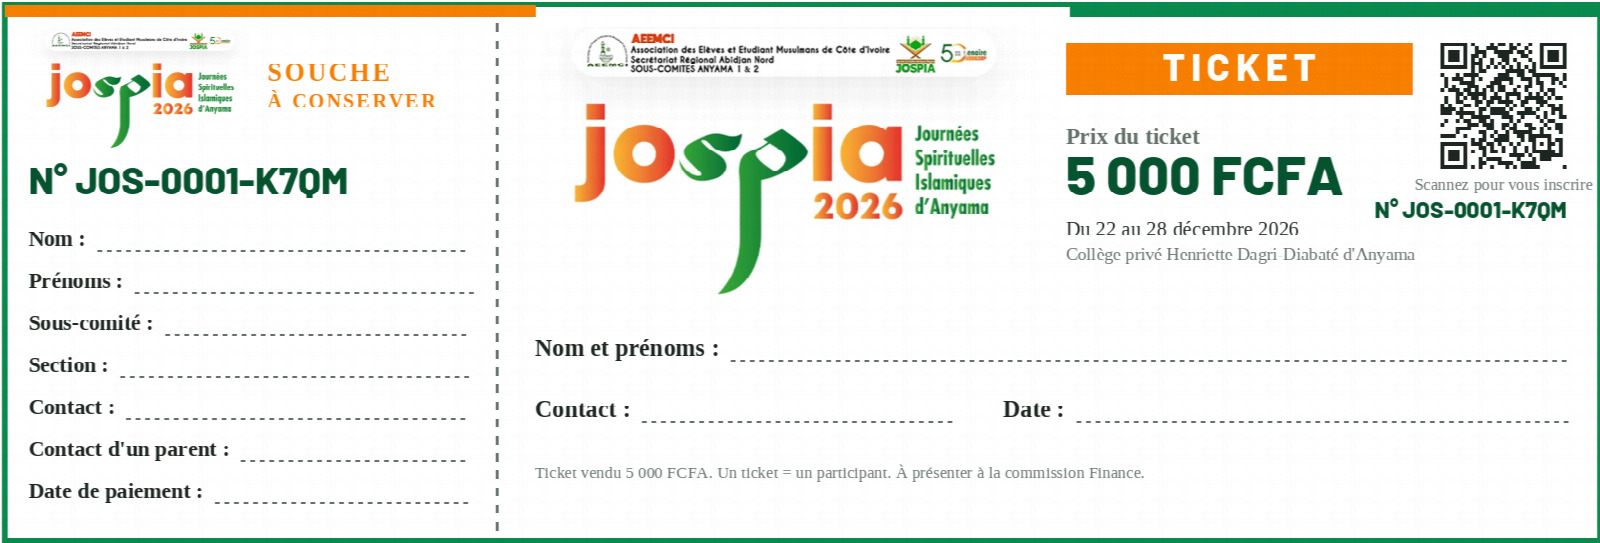
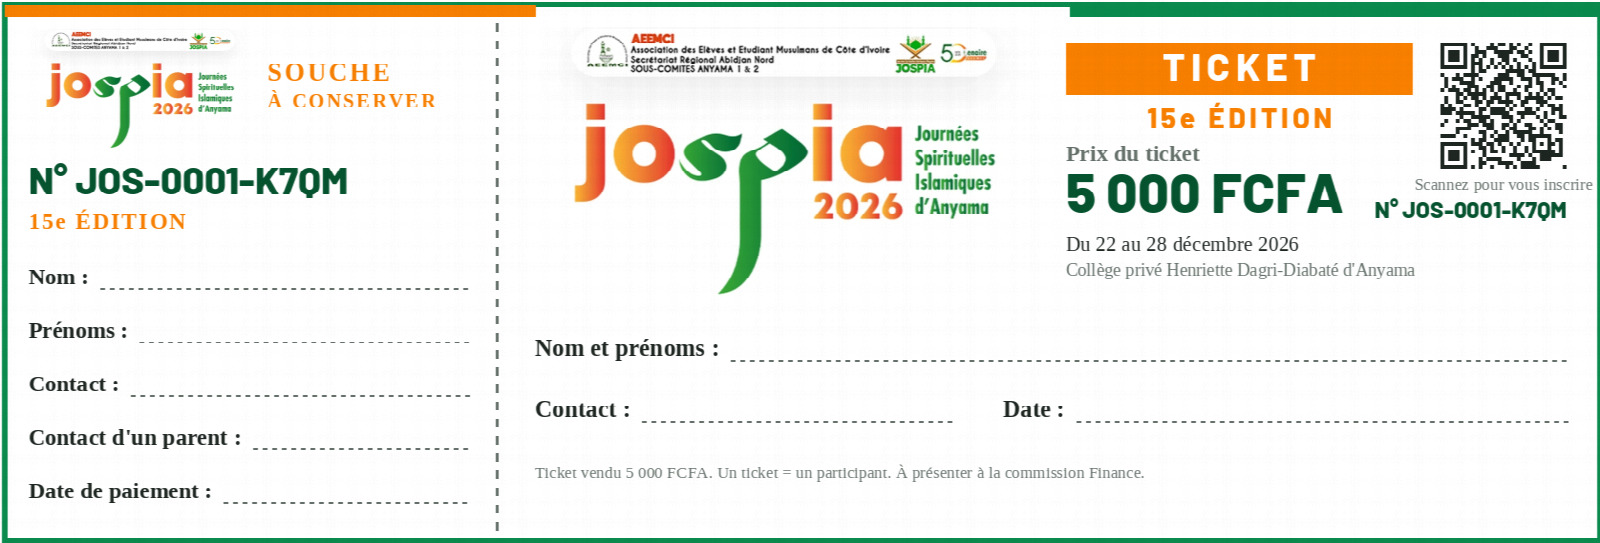
Présentation : 6 transitions, 3 nouveaux diplômes séminariste, 4 modèles diplôme d'honneur, 4 tickets distincts, souche + 15e édition
Claude-Session: https://claude.ai/code/session_01KoR57eyK1Tu3mM4eFj1smP

diff --git a/admin/presentation_administration.php b/admin/presentation_administration.php
@@ -86,11 +86,11 @@ function afficherVariantes($titre, $dossier, $cle, $vars, $ext = 'webp', $paysag
 $AC = ['actuel', 'Version actuelle', 'Orange (initial)', '#F28B1E'];
 $BT = [['petrole', 'Proposition 1', 'Bleu pétrole', '#0A6B84'], ['vert', 'Proposition 2', 'Vert profond', '#3F6B52'], ['nuit', 'Proposition 3', 'Bleu nuit', '#2A44A0']];
 $BA = array_merge([$AC], $BT);
-$DS = array_merge([['actuel', 'Version actuelle', 'Vert et or (initial)', '#C89B2C']], $BT);
+$DS = [['actuel', 'Version actuelle', 'Vert et or (initial)', '#C89B2C'], ['d', 'Modèle 1', 'Vagues pétrole et orange', '#0A6B84'], ['e', 'Modèle 2', 'Cadre doré étoilé', '#B8862B'], ['f', 'Modèle 3', 'Losanges vert et orange', '#0B6A3A']];
 $DC = [['actuel', 'Version actuelle', 'Vert (initial)', '#2E9A4C'], ['a', 'Proposition 1', 'Vagues vert et orange', '#3CB34A'], ['b', 'Proposition 2', 'Bande latérale vert profond', '#3F6B52'], ['c', 'Proposition 3', 'Rubans bleu pétrole', '#0A6B84']];
 $AB = [['formateur', 'Badge', 'Formateur', '#0B8A4E'], ['media', 'Badge', 'Média', '#16A870'], ['stand', 'Badge', 'Stand', '#F77F00'], ['visiteur', 'Badge', 'Visiteur', '#0B8A4E']];
 $TK = [['a', 'Ticket', 'N° JOS-0001-K7QM', '#0B8A4E'], ['b', 'Ticket', 'N° JOS-0002-R4XT', '#0B8A4E'], ['c', 'Ticket', 'N° JOS-0003-H9WE', '#F77F00'], ['d', 'Ticket', 'N° JOS-0004-P2ZN', '#F77F00']];
-$OF = [['petrole', 'Proposition 1', 'Bleu pétrole', '#0A6B84'], ['bordeaux', 'Proposition 2', 'Bordeaux', '#A63A58'], ['anthracite', 'Proposition 3', 'Anthracite', '#6A7077']];
+$OF = [['petrole', 'Modèle 1', 'Cadre sombre rayé', '#0A6B84'], ['b', 'Modèle 2', 'Bordeaux et or', '#6B1F33'], ['c', 'Modèle 3', 'Noir et or', '#D4A94A'], ['d', 'Modèle 4', 'Cercles vert et orange', '#0B6A3A']];
 ?><!DOCTYPE html>
 <html lang="fr">
 <head>
@@ -126,16 +126,52 @@ button{font-family:inherit}
 .tag::before{content:"";width:46px;height:3px;background:var(--o);box-shadow:0 0 14px var(--o)}
 .prog{position:absolute;left:0;bottom:0;height:7px;width:100%;z-index:30;background:rgba(255,255,255,.08)}
 .prog b{display:block;height:100%;width:0;background:linear-gradient(90deg,var(--t),var(--o));box-shadow:0 0 18px var(--o);transition:width .8s cubic-bezier(.3,0,.2,1)}
-/* ---------- transition « balayage » ---------- */
+/* ---------- transitions (6 modèles) ---------- */
 #wipe{position:absolute;inset:0;z-index:40;pointer-events:none;overflow:hidden}
-#wipe b{position:absolute;top:-15%;bottom:-15%;left:-80%;width:75%;transform:skewX(-16deg)}
-#wipe b:nth-child(1){background:linear-gradient(90deg,#ff5e00,#ff9a3d)}
-#wipe b:nth-child(2){background:linear-gradient(90deg,#0b6b7a,#12c2b0)}
-#wipe b:nth-child(3){background:#031a21}
-#wipe.go b{animation:wp 1.15s cubic-bezier(.75,0,.25,1) both}
-#wipe.go b:nth-child(2){animation-delay:.09s}
-#wipe.go b:nth-child(3){animation-delay:.18s}
+#wipe b{position:absolute;display:none;will-change:transform}
+#wipe.go b{display:block}
+/* t0 : bandes obliques */
+#wipe.t0 b{top:-15%;bottom:-15%;left:-80%;width:75%;transform:skewX(-16deg);animation:wp 1.15s cubic-bezier(.75,0,.25,1) both}
+#wipe.t0 b:nth-child(1){background:linear-gradient(90deg,#ff5e00,#ff9a3d)}
+#wipe.t0 b:nth-child(2){background:linear-gradient(90deg,#0b6b7a,#12c2b0);animation-delay:.09s}
+#wipe.t0 b:nth-child(3){background:#031a21;animation-delay:.18s}
+#wipe.t0 b:nth-child(n+4){display:none}
 @keyframes wp{from{transform:skewX(-16deg) translateX(0)}to{transform:skewX(-16deg) translateX(330%)}}
+/* t1 : volets verticaux */
+#wipe.t1 b{top:0;height:100%;width:12.6%;animation:vv 1.2s cubic-bezier(.7,0,.3,1) both}
+#wipe.t1 b:nth-child(odd){background:#031a21}#wipe.t1 b:nth-child(even){background:linear-gradient(180deg,#ff5e00,#ff9a3d)}
+#wipe.t1 b:nth-child(1){left:0}#wipe.t1 b:nth-child(2){left:12.5%;animation-delay:.05s}#wipe.t1 b:nth-child(3){left:25%;animation-delay:.1s}#wipe.t1 b:nth-child(4){left:37.5%;animation-delay:.15s}
+#wipe.t1 b:nth-child(5){left:50%;animation-delay:.2s}#wipe.t1 b:nth-child(6){left:62.5%;animation-delay:.25s}#wipe.t1 b:nth-child(7){left:75%;animation-delay:.3s}#wipe.t1 b:nth-child(8){left:87.5%;animation-delay:.35s}
+@keyframes vv{0%{transform:translateY(-101%)}40%,55%{transform:translateY(0)}100%{transform:translateY(101%)}}
+/* t2 : stores horizontaux */
+#wipe.t2 b{left:0;width:100%;height:12.6%;animation:hh 1.2s cubic-bezier(.7,0,.3,1) both}
+#wipe.t2 b:nth-child(odd){background:#0b6b7a}#wipe.t2 b:nth-child(even){background:#031a21}
+#wipe.t2 b:nth-child(1){top:0}#wipe.t2 b:nth-child(2){top:12.5%;animation-delay:.05s}#wipe.t2 b:nth-child(3){top:25%;animation-delay:.1s}#wipe.t2 b:nth-child(4){top:37.5%;animation-delay:.15s}
+#wipe.t2 b:nth-child(5){top:50%;animation-delay:.2s}#wipe.t2 b:nth-child(6){top:62.5%;animation-delay:.25s}#wipe.t2 b:nth-child(7){top:75%;animation-delay:.3s}#wipe.t2 b:nth-child(8){top:87.5%;animation-delay:.35s}
+@keyframes hh{0%{transform:translateX(-101%)}40%,55%{transform:translateX(0)}100%{transform:translateX(101%)}}
+/* t3 : iris */
+#wipe.t3 b:nth-child(1){inset:0;background:radial-gradient(circle,#0b6b7a 0,#031a21 70%);animation:ir 1.2s cubic-bezier(.7,0,.3,1) both}
+#wipe.t3 b:nth-child(2){left:50%;top:50%;width:140vmax;height:140vmax;margin:-70vmax 0 0 -70vmax;border-radius:50%;border:14px solid #ff7a1a;animation:ir2 1.2s cubic-bezier(.7,0,.3,1) both}
+@keyframes ir{0%{clip-path:circle(0% at 50% 50%)}45%,60%{clip-path:circle(75% at 50% 50%)}100%{clip-path:circle(75% at 50% 50%);opacity:0}}
+@keyframes ir2{0%{transform:scale(0);opacity:1}45%{transform:scale(1);opacity:1}60%,100%{transform:scale(1.15);opacity:0}}
+/* t4 : flash + zoom */
+#wipe.t4 b:nth-child(1){inset:0;background:radial-gradient(circle,#fff 0,#ffb46b 30%,#ff5e00 70%);animation:fl 1s ease-in-out both}
+#wipe.t4 b:nth-child(2){inset:0;background:#031a21;animation:fl2 1s ease-in-out both}
+@keyframes fl{0%{opacity:0;transform:scale(.6)}45%{opacity:1;transform:scale(1.2)}100%{opacity:0;transform:scale(1.7)}}
+@keyframes fl2{0%{opacity:0}40%,55%{opacity:.9}100%{opacity:0}}
+/* t5 : rideau en diagonale */
+#wipe.t5 b{top:-60%;left:-10%;width:130%;height:34%;transform:rotate(-20deg) translateX(-130%);animation:dg 1.2s cubic-bezier(.7,0,.3,1) both}
+#wipe.t5 b:nth-child(odd){background:#031a21}#wipe.t5 b:nth-child(even){background:linear-gradient(90deg,#ff5e00,#ff9a3d)}
+#wipe.t5 b:nth-child(1){top:-30%}#wipe.t5 b:nth-child(2){top:-10%;animation-delay:.06s}#wipe.t5 b:nth-child(3){top:10%;animation-delay:.12s}#wipe.t5 b:nth-child(4){top:30%;animation-delay:.18s}
+#wipe.t5 b:nth-child(5){top:50%;animation-delay:.24s}#wipe.t5 b:nth-child(6){top:70%;animation-delay:.3s}#wipe.t5 b:nth-child(7){top:90%;animation-delay:.36s}#wipe.t5 b:nth-child(8){display:none}
+@keyframes dg{0%{transform:rotate(-20deg) translateX(-130%)}40%,55%{transform:rotate(-20deg) translateX(0)}100%{transform:rotate(-20deg) translateX(130%)}}
+/* entrées de diapositive variées */
+.slide.actif.e1 .cadre{animation:e1 1s cubic-bezier(.16,.9,.25,1) .45s both}
+.slide.actif.e2 .cadre{animation:e2 1s cubic-bezier(.16,.9,.25,1) .45s both}
+.slide.actif.e3 .cadre{animation:e3 1s cubic-bezier(.16,.9,.25,1) .45s both}
+@keyframes e1{from{opacity:0;transform:scale(1.18);filter:blur(14px)}to{opacity:1;transform:none;filter:none}}
+@keyframes e2{from{opacity:0;transform:perspective(1600px) rotateX(18deg) translateY(60px)}to{opacity:1;transform:none}}
+@keyframes e3{from{opacity:0;transform:translateX(160px)}to{opacity:1;transform:none}}
 /* ---------- diapositives ---------- */
 .slide{position:absolute;inset:0;display:none}
 .slide.actif{display:block}
@@ -283,7 +319,7 @@ body.cache{cursor:none}
   </div></section>
 
   <canvas id="fete" width="1920" height="1080"></canvas>
-  <div id="wipe"><b></b><b></b><b></b></div>
+  <div id="wipe"><b></b><b></b><b></b><b></b><b></b><b></b><b></b><b></b></div>
   <div class="prog"><b id="prog"></b></div>
 </div>
 <div class="cmd">
@@ -334,7 +370,7 @@ body.cache{cursor:none}
     if(i<0||i>=n)return;
     if(i===c){st=step;maj();return}
     function bascule(){
-      sl.forEach(function(s,k){s.classList.toggle('actif',k===i)});
+      sl.forEach(function(s,k){s.classList.toggle('actif',k===i);s.classList.remove('e1','e2','e3');if(k===i&&i%4)s.classList.add('e'+(i%4))});
       c=i;st=step;maj();
       cpt.textContent=(i+1)+' / '+n;prog.style.width=((i+1)/n*100)+'%';
       try{history.replaceState(null,'','#'+(i+1))}catch(e){}
@@ -342,8 +378,8 @@ body.cache{cursor:none}
       if(sl[i].classList.contains('fin'))setTimeout(fete,1100);
     }
     if(direct||c<0){bascule();return}
-    busy=true;wipe.className='';void wipe.offsetWidth;wipe.className='go';
-    setTimeout(bascule,520);setTimeout(function(){wipe.className='';busy=false},1500);
+    var T=i%6;busy=true;wipe.className='';void wipe.offsetWidth;wipe.className='go t'+T;
+    setTimeout(bascule,T===4?420:560);setTimeout(function(){wipe.className='';busy=false},1500);
   }
   function suivant(){if(busy)return;var max=parseInt(sl[c].getAttribute('data-steps'),10)-1;if(st<max){st++;maj()}else go(c+1,0)}
   function precedent(){if(busy)return;if(st>0){st--;maj()}else if(c>0){go(c-1,parseInt(sl[c-1].getAttribute('data-steps'),10)-1)}}

diff --git a/includes/pdf_docs.php b/includes/pdf_docs.php
@@ -940,10 +940,11 @@ function pdfTicket(array $t) {
     pdfEcrire($im, 20, 280, 84, $orange, $B, 'SOUCHE', 3);
     pdfEcrire($im, 16, 280, 112, $orange, $B, 'À CONSERVER', 2);
     pdfEcrire($im, 30, 30, 30 + $sh + 46, $vertF, $BA, 'N° ' . $code);
-    $y = 30 + $sh + 100;
-    foreach (['Nom', 'Prénoms', 'Sous-comité', 'Section', 'Contact', "Contact d'un parent", 'Date de paiement'] as $lib) {
-        $champ($lib, 30, $y, $XP - 28, 17);
-        $y += 44;
+    pdfEcrire($im, 18, 30, 30 + $sh + 82, $orange, $B, '15e ÉDITION', 2);
+    $y = 30 + $sh + 140;
+    foreach (['Nom', 'Prénoms', 'Contact', "Contact d'un parent", 'Date de paiement'] as $lib) {
+        $champ($lib, 30, $y, $XP - 28, 18);
+        $y += 56;
     }
 
     // ---------- TICKET (remis à la personne, vendu) ----------
@@ -965,11 +966,13 @@ function pdfTicket(array $t) {
     $tt = 'TICKET'; $tw = pdfLargeurTexte(30, $BA, $tt, 6);
     pdfEcrire($im, 30, $px0 + (($qx - 30 - $px0) - $tw) / 2, 44 + 40, $blanc, $BA, $tt, 6);
     $m1 = number_format(FRAIS_PARTICIPATION, 0, ',', ' ') . ' FCFA';
-    pdfEcrire($im, 18, $px0, 150, $gris, $B, 'Prix du ticket');
-    pdfEcrire($im, 43, $px0, 204, $vertF, $BA, $m1);
+    $ed = '15e ÉDITION'; $edw = pdfLargeurTexte(22, $BA, $ed, 4);
+    pdfEcrire($im, 22, $px0 + (($qx - 30 - $px0) - $edw) / 2, 44 + 54 + 36, $orange, $BA, $ed, 4);
+    pdfEcrire($im, 18, $px0, 168, $gris, $B, 'Prix du ticket');
+    pdfEcrire($im, 43, $px0, 222, $vertF, $BA, $m1);
     $mois = defined('EVENT_MOIS_ANNEE') ? mb_strtolower(EVENT_MOIS_ANNEE, 'UTF-8') : 'décembre 2026';
-    pdfEcrire($im, 16, $px0, 246, $noir, $R, 'Du ' . (defined('EVENT_JOUR_DEBUT') ? EVENT_JOUR_DEBUT : '22') . ' au ' . (defined('EVENT_JOUR_FIN') ? EVENT_JOUR_FIN : '28') . ' ' . $mois);
-    pdfEcrire($im, 14, $px0, 272, $gris, $R, "Collège privé Henriette Dagri-Diabaté d'Anyama");
+    pdfEcrire($im, 16, $px0, 262, $noir, $R, 'Du ' . (defined('EVENT_JOUR_DEBUT') ? EVENT_JOUR_DEBUT : '22') . ' au ' . (defined('EVENT_JOUR_FIN') ? EVENT_JOUR_FIN : '28') . ' ' . $mois);
+    pdfEcrire($im, 14, $px0, 288, $gris, $R, "Collège privé Henriette Dagri-Diabaté d'Anyama");
     // champs à remplir par l'acheteur
     $xFin = $W - 40;
     $champ('Nom et prénoms', $mx, 372, $xFin, 19);
